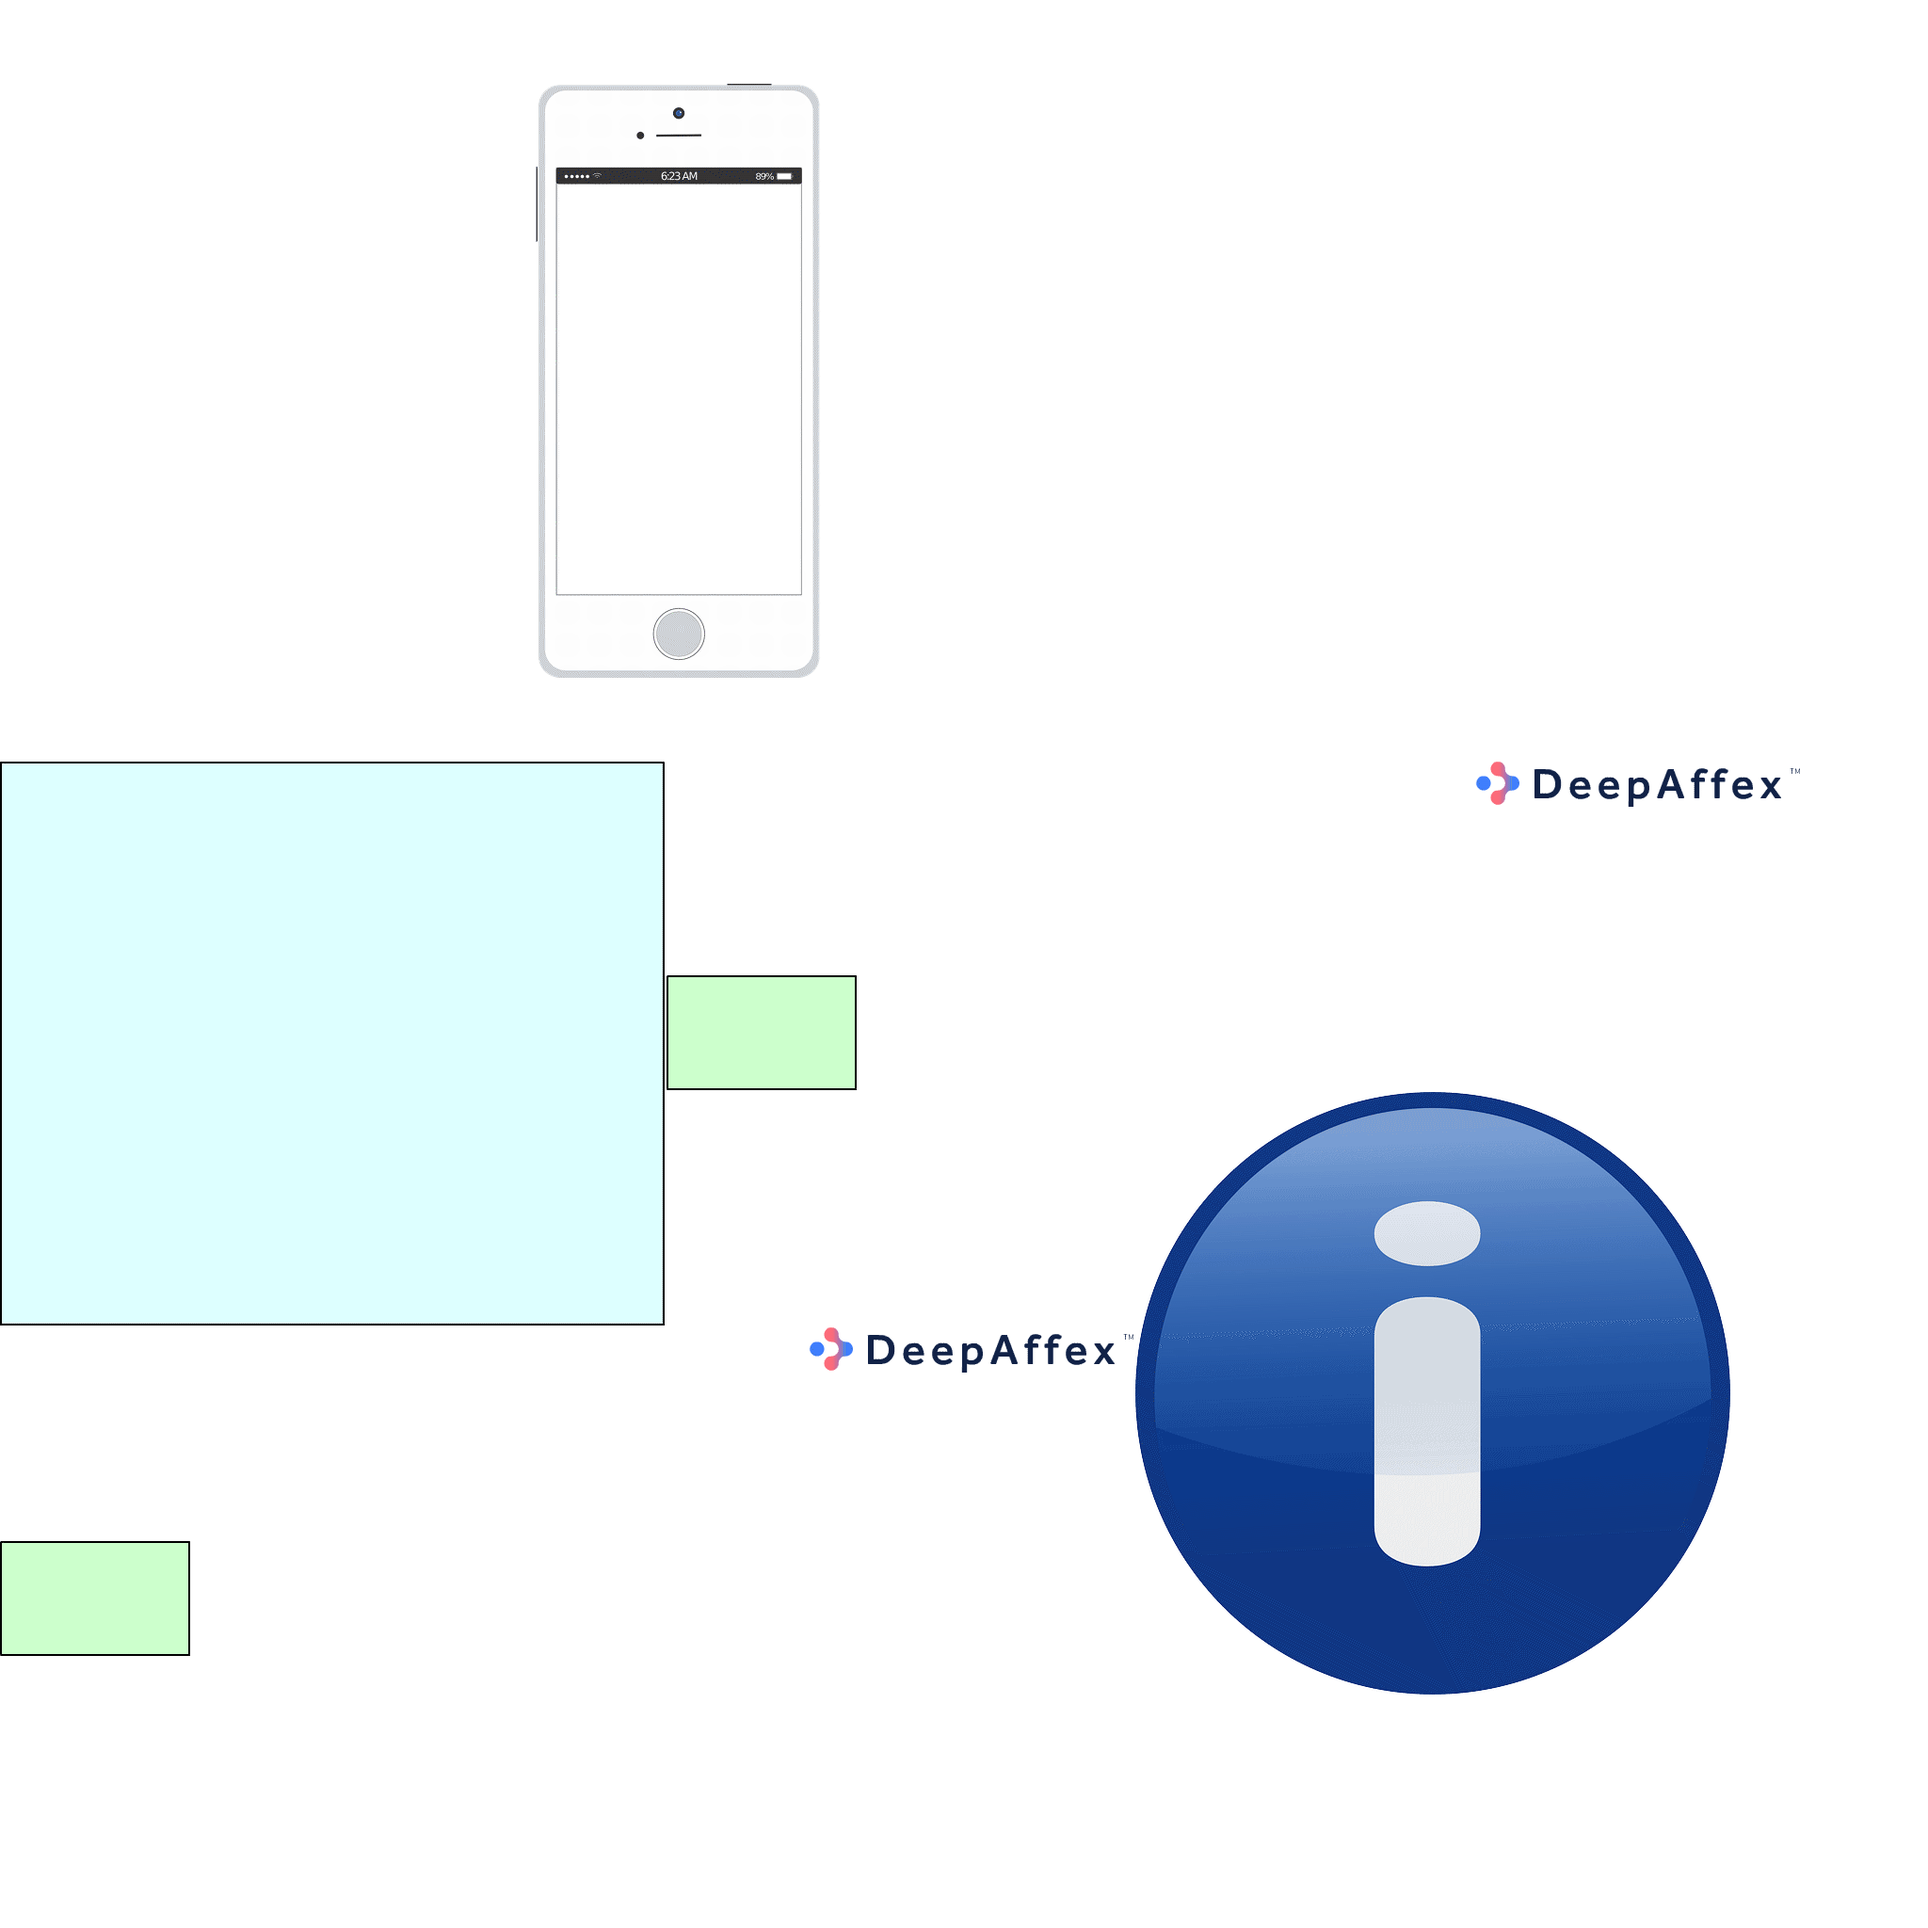
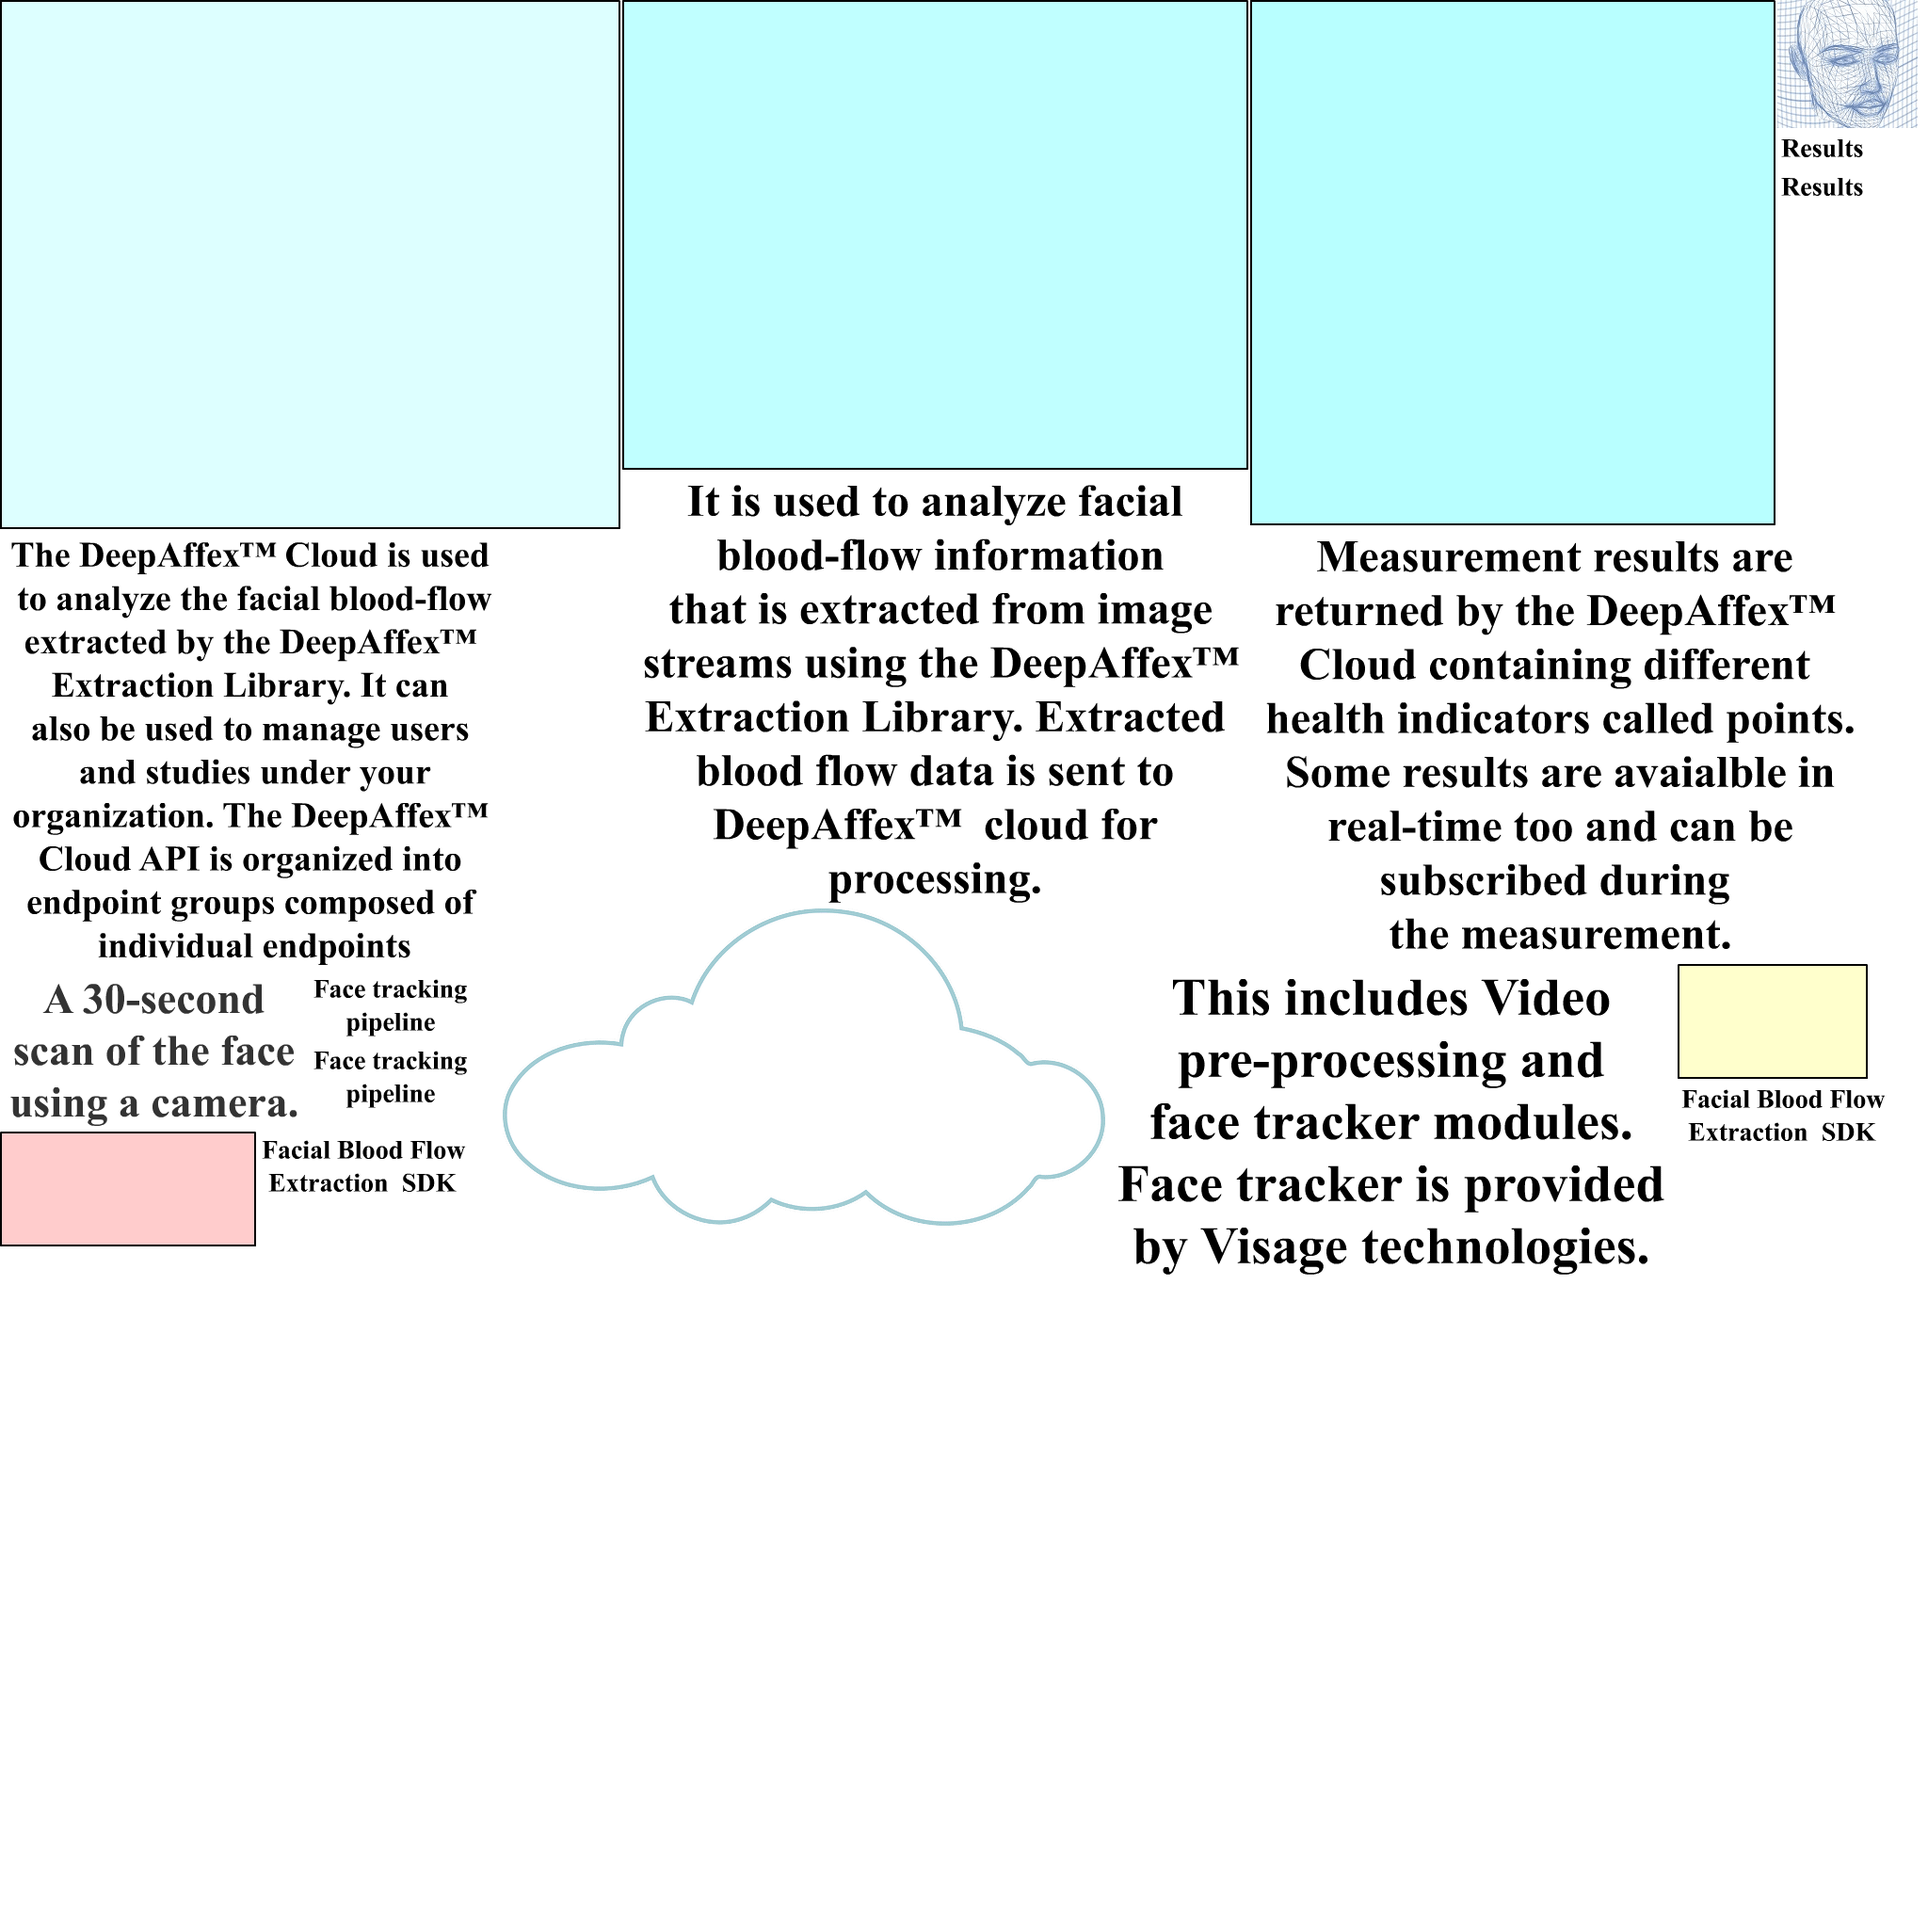
Add files via upload

diff --git a/index.js b/index.js
@@ -4,8 +4,8 @@ var p; // shortcut to reference prototypes
 var lib={};var ss={};var img={};
 var rect; // used to reference frame bounds
 lib.ssMetadata = [
-		{name:"index_atlas_1", frames: [[0,809,706,599],[0,1410,1204,349],[708,809,1204,349],[1206,1160,632,640],[0,0,1440,807]]},
-		{name:"index_atlas_2", frames: [[1328,560,647,462],[661,0,665,499],[0,564,532,465],[1328,0,558,558],[661,501,665,462],[1176,1024,604,334],[0,0,659,562],[0,1031,327,169],[329,1031,172,74],[1888,138,96,39],[1782,1148,232,74],[329,1107,172,74],[1782,1024,202,122],[1888,179,96,39],[274,1202,232,74],[0,1202,272,122],[534,965,640,337],[1888,0,149,136]]}
+		{name:"index_atlas_1", frames: [[1328,560,647,462],[661,0,665,499],[0,564,532,465],[1328,0,558,558],[661,501,665,462],[1176,1024,604,334],[0,0,659,562],[0,1031,327,169],[329,1031,172,74],[1888,138,96,39],[1782,1148,232,74],[329,1107,172,74],[1782,1024,202,122],[1888,179,96,39],[274,1202,232,74],[0,1202,272,122],[534,965,640,337],[1888,0,149,136]]},
+		{name:"index_atlas_2", frames: [[0,809,706,599],[0,1410,1204,349],[708,809,1204,349],[1206,1160,632,640],[0,0,1440,807]]}
 ];
 
 
@@ -30,161 +30,161 @@ lib.ssMetadata = [
 
 
 (lib.CachedBmp_15 = function() {
-	this.initialize(ss["index_atlas_2"]);
+	this.initialize(ss["index_atlas_1"]);
 	this.gotoAndStop(0);
 }).prototype = p = new cjs.Sprite();
 
 
 
 (lib.CachedBmp_14 = function() {
-	this.initialize(ss["index_atlas_2"]);
+	this.initialize(ss["index_atlas_1"]);
 	this.gotoAndStop(1);
 }).prototype = p = new cjs.Sprite();
 
 
 
 (lib.CachedBmp_13 = function() {
-	this.initialize(ss["index_atlas_2"]);
+	this.initialize(ss["index_atlas_1"]);
 	this.gotoAndStop(2);
 }).prototype = p = new cjs.Sprite();
 
 
 
 (lib.CachedBmp_12 = function() {
-	this.initialize(ss["index_atlas_2"]);
+	this.initialize(ss["index_atlas_1"]);
 	this.gotoAndStop(3);
 }).prototype = p = new cjs.Sprite();
 
 
 
 (lib.CachedBmp_11 = function() {
-	this.initialize(ss["index_atlas_2"]);
+	this.initialize(ss["index_atlas_1"]);
 	this.gotoAndStop(4);
 }).prototype = p = new cjs.Sprite();
 
 
 
 (lib.CachedBmp_10 = function() {
-	this.initialize(ss["index_atlas_1"]);
+	this.initialize(ss["index_atlas_2"]);
 	this.gotoAndStop(0);
 }).prototype = p = new cjs.Sprite();
 
 
 
 (lib.CachedBmp_9 = function() {
-	this.initialize(ss["index_atlas_2"]);
+	this.initialize(ss["index_atlas_1"]);
 	this.gotoAndStop(5);
 }).prototype = p = new cjs.Sprite();
 
 
 
 (lib.CachedBmp_8 = function() {
-	this.initialize(ss["index_atlas_2"]);
+	this.initialize(ss["index_atlas_1"]);
 	this.gotoAndStop(6);
 }).prototype = p = new cjs.Sprite();
 
 
 
 (lib.CachedBmp_7 = function() {
-	this.initialize(ss["index_atlas_2"]);
+	this.initialize(ss["index_atlas_1"]);
 	this.gotoAndStop(7);
 }).prototype = p = new cjs.Sprite();
 
 
 
 (lib.CachedBmp_22 = function() {
-	this.initialize(ss["index_atlas_2"]);
+	this.initialize(ss["index_atlas_1"]);
 	this.gotoAndStop(8);
 }).prototype = p = new cjs.Sprite();
 
 
 
 (lib.CachedBmp_20 = function() {
-	this.initialize(ss["index_atlas_2"]);
+	this.initialize(ss["index_atlas_1"]);
 	this.gotoAndStop(9);
 }).prototype = p = new cjs.Sprite();
 
 
 
-(lib.CachedBmp_19 = function() {
-	this.initialize(ss["index_atlas_1"]);
+(lib.CachedBmp_24 = function() {
+	this.initialize(ss["index_atlas_2"]);
 	this.gotoAndStop(1);
 }).prototype = p = new cjs.Sprite();
 
 
 
 (lib.CachedBmp_18 = function() {
-	this.initialize(ss["index_atlas_2"]);
+	this.initialize(ss["index_atlas_1"]);
 	this.gotoAndStop(10);
 }).prototype = p = new cjs.Sprite();
 
 
 
 (lib.CachedBmp_6 = function() {
-	this.initialize(ss["index_atlas_2"]);
+	this.initialize(ss["index_atlas_1"]);
 	this.gotoAndStop(11);
 }).prototype = p = new cjs.Sprite();
 
 
 
 (lib.CachedBmp_21 = function() {
-	this.initialize(ss["index_atlas_2"]);
+	this.initialize(ss["index_atlas_1"]);
 	this.gotoAndStop(12);
 }).prototype = p = new cjs.Sprite();
 
 
 
 (lib.CachedBmp_4 = function() {
-	this.initialize(ss["index_atlas_2"]);
+	this.initialize(ss["index_atlas_1"]);
 	this.gotoAndStop(13);
 }).prototype = p = new cjs.Sprite();
 
 
 
-(lib.CachedBmp_16 = function() {
-	this.initialize(ss["index_atlas_1"]);
+(lib.CachedBmp_23 = function() {
+	this.initialize(ss["index_atlas_2"]);
 	this.gotoAndStop(2);
 }).prototype = p = new cjs.Sprite();
 
 
 
 (lib.CachedBmp_2 = function() {
-	this.initialize(ss["index_atlas_2"]);
+	this.initialize(ss["index_atlas_1"]);
 	this.gotoAndStop(14);
 }).prototype = p = new cjs.Sprite();
 
 
 
 (lib.CachedBmp_17 = function() {
-	this.initialize(ss["index_atlas_2"]);
+	this.initialize(ss["index_atlas_1"]);
 	this.gotoAndStop(15);
 }).prototype = p = new cjs.Sprite();
 
 
 
 (lib.cloudg380b60d55_640 = function() {
-	this.initialize(ss["index_atlas_2"]);
+	this.initialize(ss["index_atlas_1"]);
 	this.gotoAndStop(16);
 }).prototype = p = new cjs.Sprite();
 
 
 
 (lib.headg09053c5dd_1920 = function() {
-	this.initialize(ss["index_atlas_2"]);
+	this.initialize(ss["index_atlas_1"]);
 	this.gotoAndStop(17);
 }).prototype = p = new cjs.Sprite();
 
 
 
 (lib.infogf7c4623d0_640 = function() {
-	this.initialize(ss["index_atlas_1"]);
+	this.initialize(ss["index_atlas_2"]);
 	this.gotoAndStop(3);
 }).prototype = p = new cjs.Sprite();
 
 
 
 (lib.iphone = function() {
-	this.initialize(ss["index_atlas_1"]);
+	this.initialize(ss["index_atlas_2"]);
 	this.gotoAndStop(4);
 }).prototype = p = new cjs.Sprite();
 
@@ -898,7 +898,7 @@ if (reversed == null) { reversed = false; }
 	this.instance_5 = new lib.CachedBmp_4();
 	this.instance_5.setTransform(496.55,409.9,0.5,0.5);
 
-	this.instance_6 = new lib.CachedBmp_16();
+	this.instance_6 = new lib.CachedBmp_23();
 	this.instance_6.setTransform(473.45,276.75,0.5,0.5);
 
 	this.instance_7 = new lib.cloudg380b60d55_640();
@@ -919,7 +919,7 @@ if (reversed == null) { reversed = false; }
 	this.instance_12 = new lib.CachedBmp_20();
 	this.instance_12.setTransform(496.55,409.9,0.5,0.5);
 
-	this.instance_13 = new lib.CachedBmp_19();
+	this.instance_13 = new lib.CachedBmp_24();
 	this.instance_13.setTransform(473.45,276.75,0.5,0.5);
 
 	this.instance_14 = new lib.CachedBmp_18();
@@ -954,13 +954,13 @@ if (reversed == null) { reversed = false; }
 	this._renderFirstFrame();
 
 }).prototype = p = new lib.AnMovieClip();
-p.nominalBounds = rect = new cjs.Rectangle(284.7,272,1440.3,669.7);
+p.nominalBounds = rect = new cjs.Rectangle(284.7,372,1440.3,669.7);
 p.frameBounds = [rect, rect, rect, rect, rect, rect, rect, rect, rect, rect, rect, rect, rect, rect, rect, rect, rect, rect, rect, rect, rect, rect, rect, rect, rect, rect, rect, rect, rect, rect, rect, rect, rect, rect, rect, rect, rect, rect, rect, rect, rect, rect, rect, rect, rect, rect, rect, rect, rect, rect, rect, rect, rect, rect, rect, rect, rect, rect, rect, rect, rect, rect, rect, rect, rect, rect, rect, rect, rect, rect, rect, rect, rect, rect, rect, rect, rect, rect, rect, rect, rect, rect, rect, rect, rect, rect, rect, rect, rect, rect, rect, rect, rect, rect, rect, rect, rect, rect, rect, rect, rect, rect, rect, rect, rect, rect, rect, rect, rect, rect, rect, rect, rect, rect, rect, rect, rect, rect, rect, rect, rect, rect, rect, rect, rect, rect, rect, rect, rect];
 // library properties:
 lib.properties = {
 	id: '2458349F098332428878C64D5289E72C',
 	width: 1200,
-	height: 600,
+	height: 800,
 	fps: 24,
 	color: "#FFFFFF",
 	opacity: 1.00,

diff --git a/index.html b/index.html
@@ -72,11 +72,11 @@ function handleComplete(evt,comp) {
 <!-- write your code here -->
 </head>
 <body onload="init();" style="margin:0px;">
-	<div id="animation_container" style="background-color:rgba(255, 255, 255, 1.00); width:1200px; height:600px">
-		<canvas id="canvas" width="1200" height="600" style="position: absolute; display: none; background-color:rgba(255, 255, 255, 1.00);"></canvas>
-		<div id="dom_overlay_container" style="pointer-events:none; overflow:hidden; width:1200px; height:600px; position: absolute; left: 0px; top: 0px; display: none;">
+	<div id="animation_container" style="background-color:rgba(255, 255, 255, 1.00); width:1200px; height:800px">
+		<canvas id="canvas" width="1200" height="800" style="position: absolute; display: none; background-color:rgba(255, 255, 255, 1.00);"></canvas>
+		<div id="dom_overlay_container" style="pointer-events:none; overflow:hidden; width:1200px; height:800px; position: absolute; left: 0px; top: 0px; display: none;">
 		</div>
 	</div>
-    <div id='_preload_div_' style='position:absolute; top:0; left:0; display: inline-block; height:600px; width: 1200px; text-align: center;'>	<span style='display: inline-block; height: 100%; vertical-align: middle;'></span>	<img src=images/_preloader.gif style='vertical-align: middle; max-height: 100%'/></div>
+    <div id='_preload_div_' style='position:absolute; top:0; left:0; display: inline-block; height:800px; width: 1200px; text-align: center;'>	<span style='display: inline-block; height: 100%; vertical-align: middle;'></span>	<img src=images/_preloader.gif style='vertical-align: middle; max-height: 100%'/></div>
 </body>
 </html>
